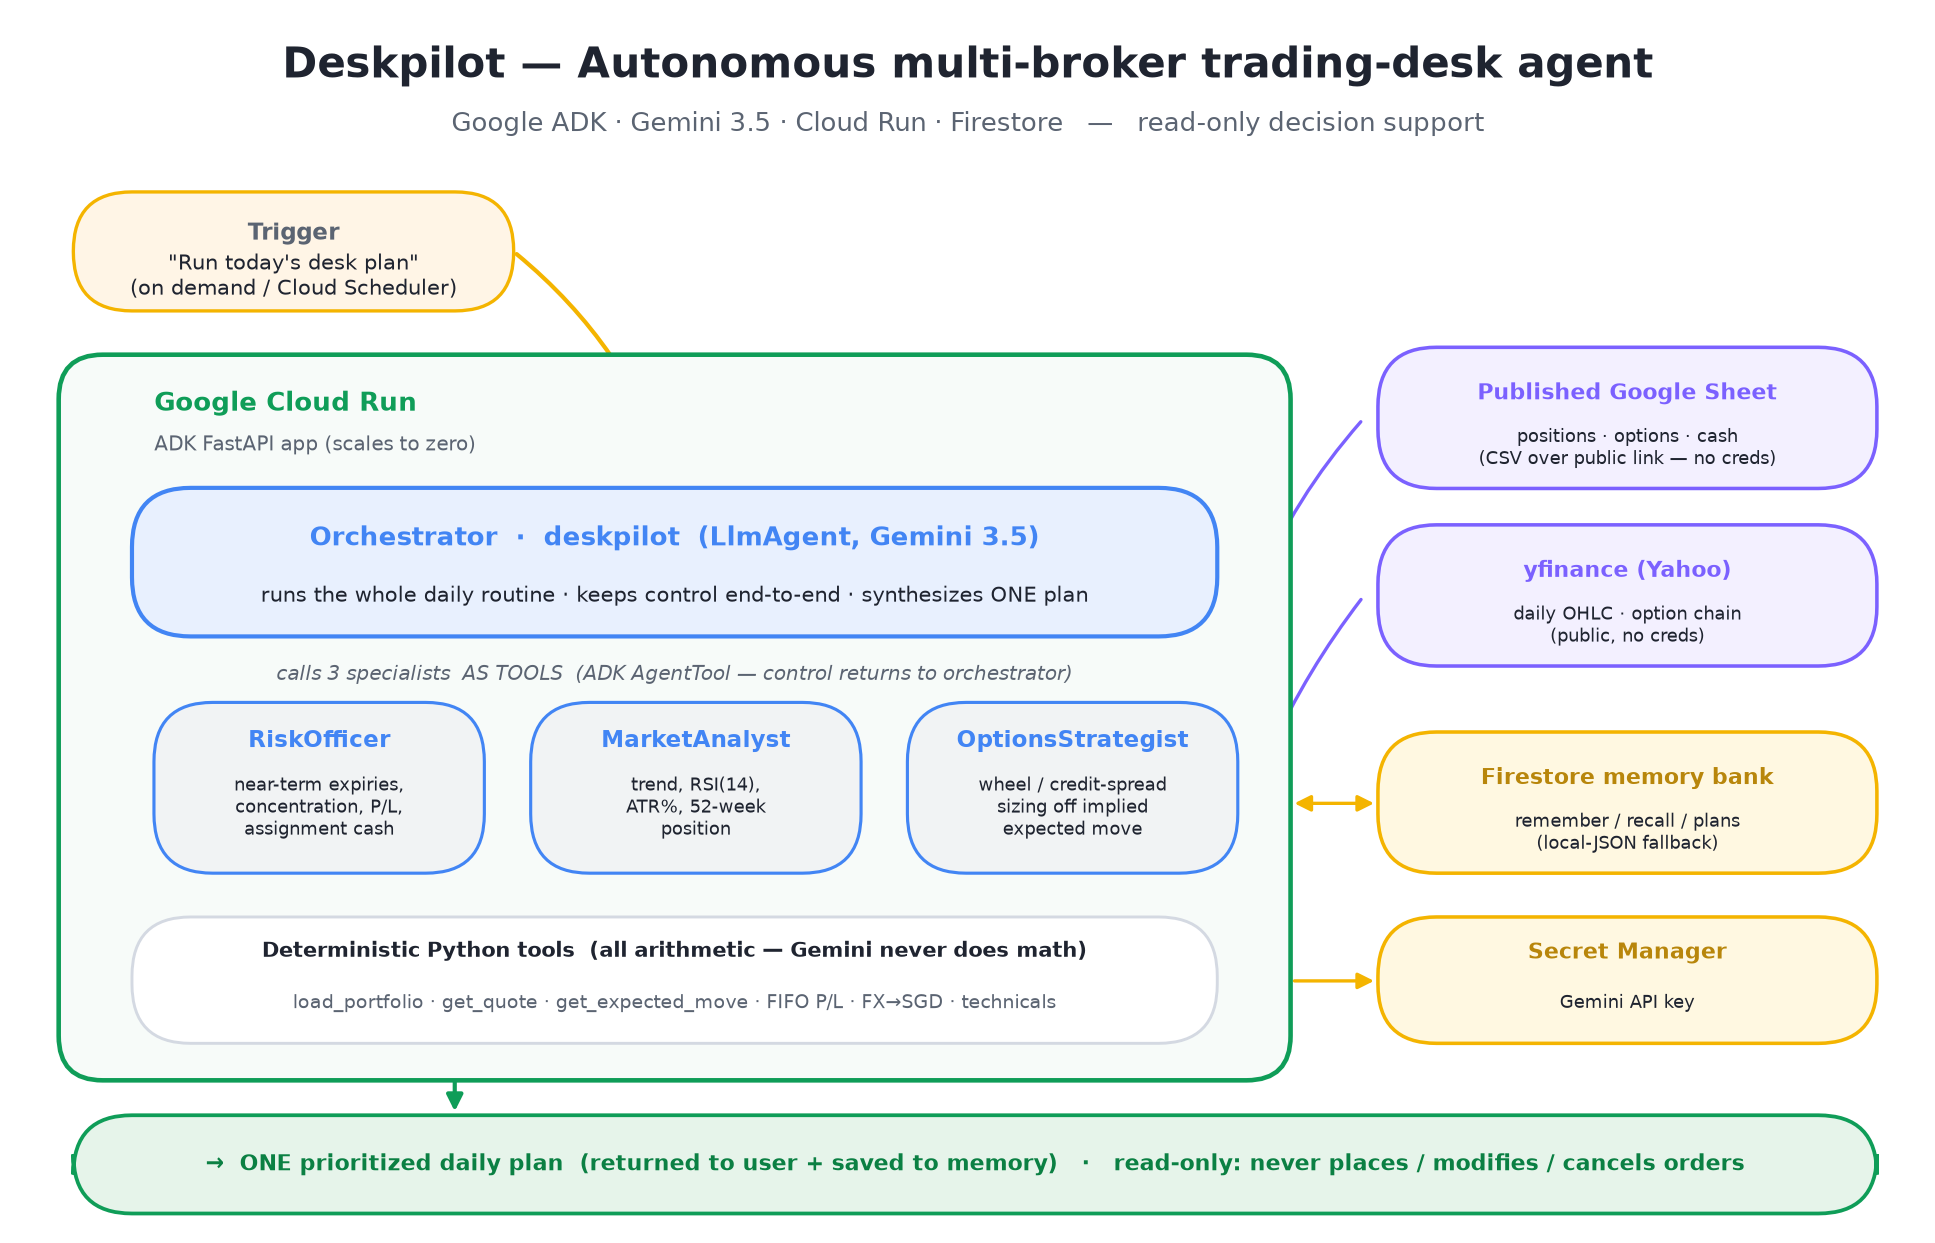
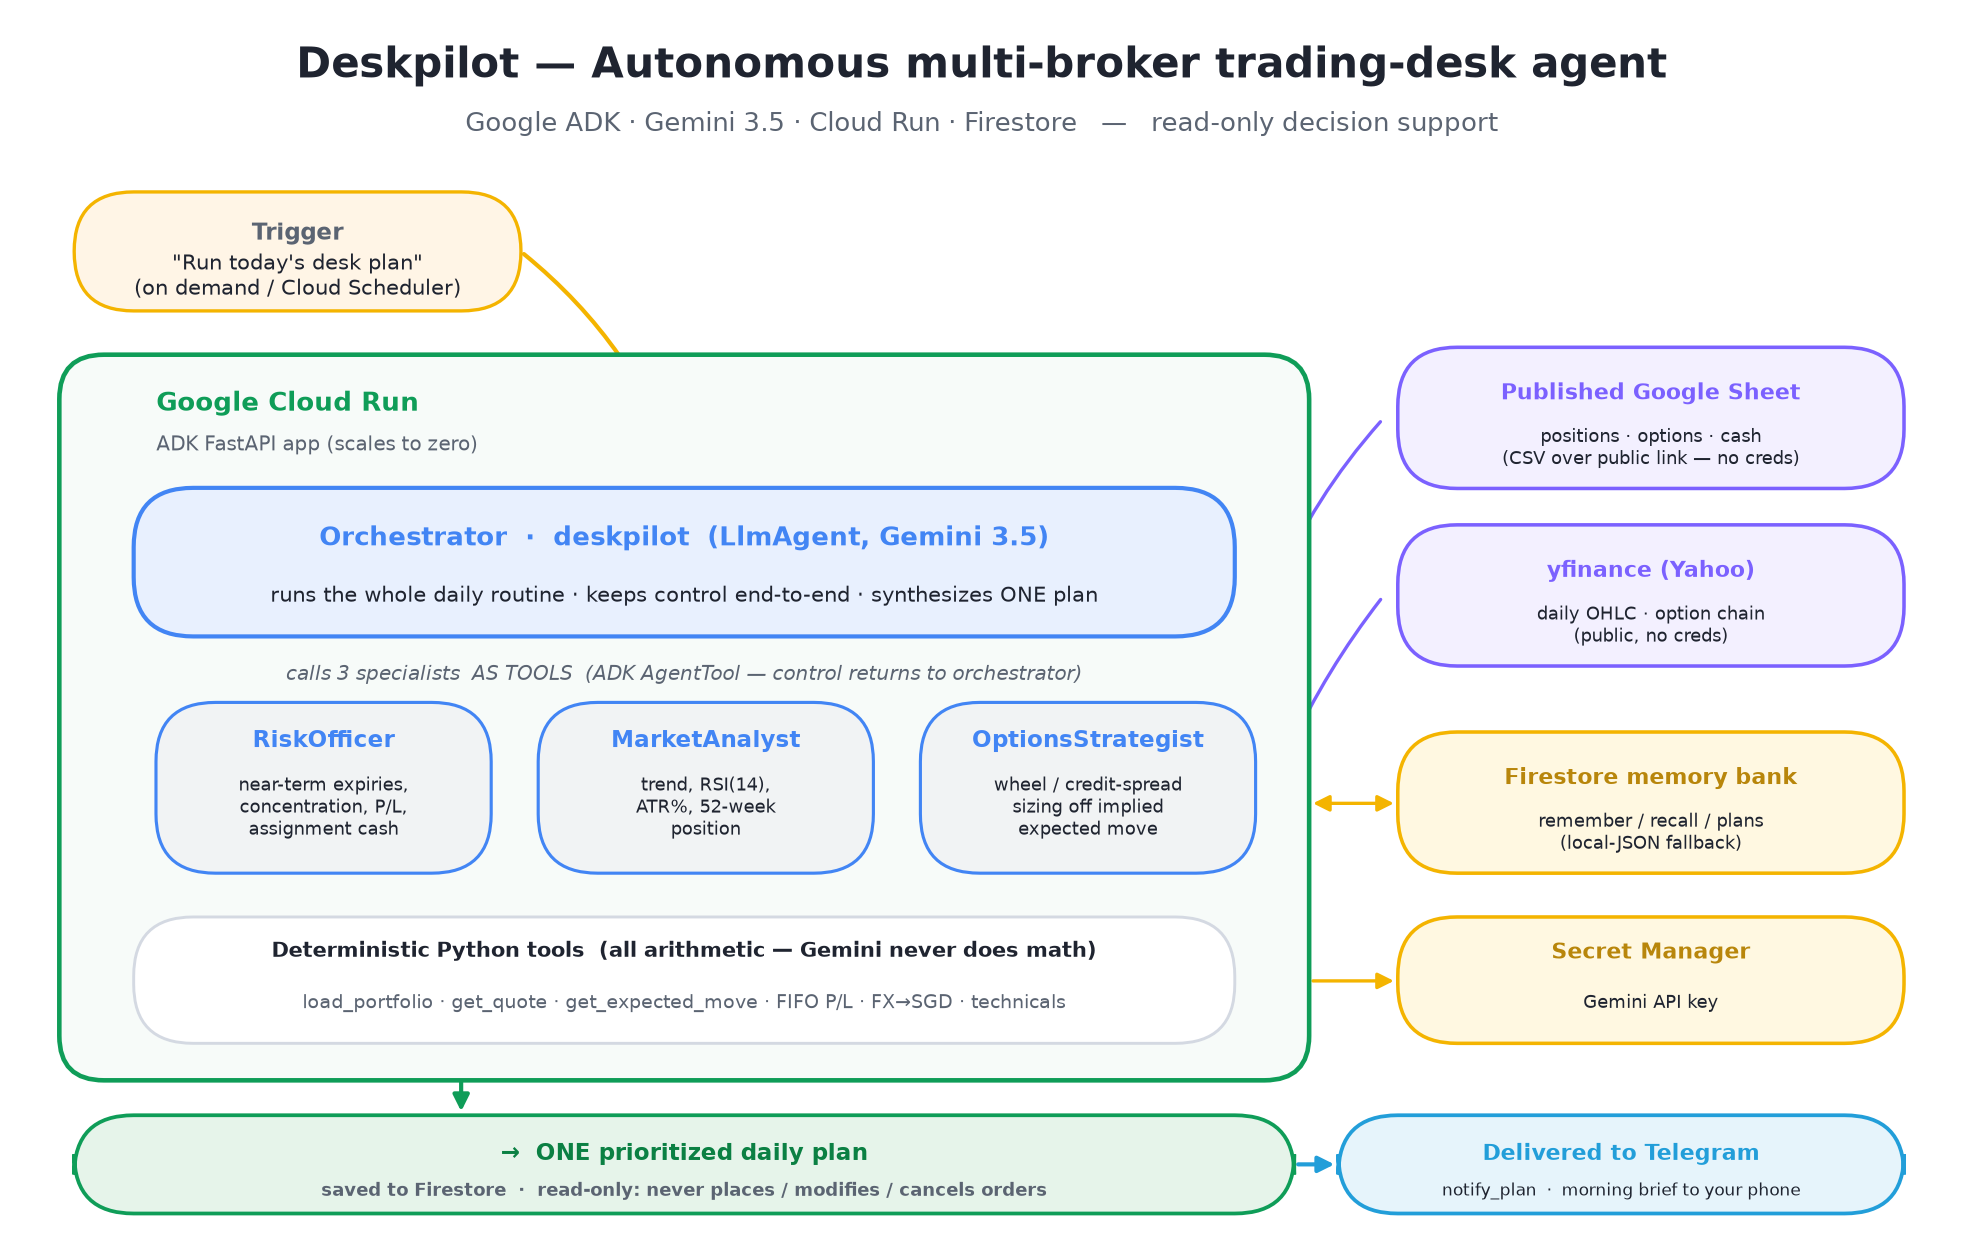
docs: update README description for Telegram integration and clarify project dependencies, and add architecture diagram

diff --git a/README.md b/README.md
@@ -5,7 +5,8 @@
 Deskpilot turns a synced multi-broker portfolio into one prioritized daily plan.
 Every morning it recalls yesterday's intent, reviews the live book for risk,
 reads the technicals on the names that need a decision, sizes any options-income
-setups, and writes a single plan back to its memory — unattended.
+setups, writes a single plan back to memory, and delivers it to your phone via
+Telegram — unattended.
 
 > **Read-only decision support.** Deskpilot never places, modifies, or cancels an
 > order and gives no personalized buy/sell advice. It surfaces setups and
@@ -153,10 +154,10 @@ Deskpilot/
 ## License / disclosure
 
 Personal hackathon project (All Things Agentic — Taskmaster track). It is a **new
-project** built during the submission window. All code here — agents, tools,
-memory layer, serving, deploy config, and tests — was written for this submission.
-Its data source is a plain Google Sheet, so it has no dependency on any of the
-author's other systems. The orchestrator–specialist approach is informed by the
-author's earlier ADK experiments, but this is a fresh implementation targeting
-Gemini 3.5+, Cloud Run, and Firestore. No credentials are committed; see
-`.gitignore`.
+project** built during the submission window; all agent, tool, memory, serving,
+deploy, and test code here was written for this submission. Its data source is a
+published Google Sheet, so it has **no runtime dependency** on any of the author's
+other systems — a reviewer can point it at their own sheet with one env var. The
+author populates their own sheet from a pre-existing project, `broker-portfolio-sync`
+(prior work, not part of this repo), but that is an optional data-prep convenience,
+not a component of Deskpilot. No credentials are committed; see `.gitignore`.
